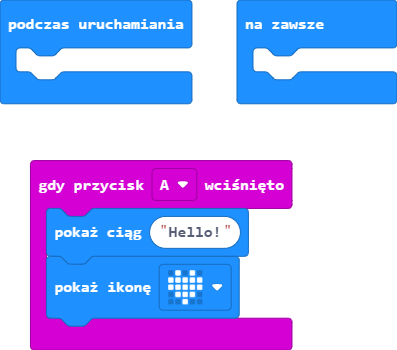
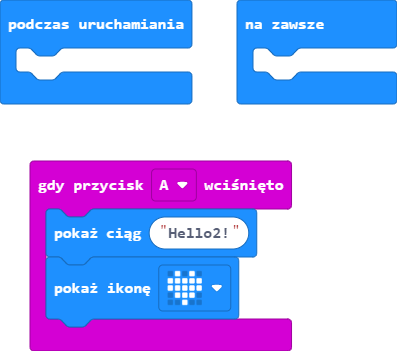
test

diff --git a/main.ts b/main.ts
@@ -1,5 +1,5 @@
 input.onButtonPressed(Button.A, function () {
-    basic.showString("Hello!")
+    basic.showString("Hello2!")
     basic.showIcon(IconNames.Heart)
 })
 basic.forever(function () {
